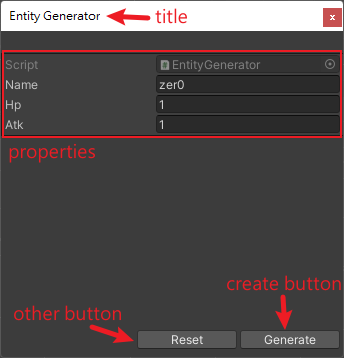
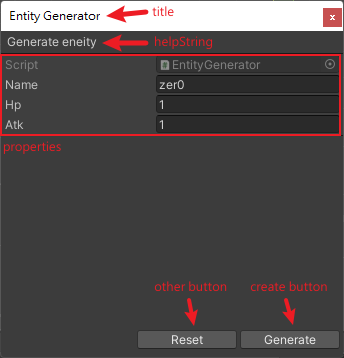
Updated ScriptableWizard

diff --git a/Assets/ScriptableWizard/Editor/EntityGenerator.cs b/Assets/ScriptableWizard/Editor/EntityGenerator.cs
@@ -17,7 +17,7 @@ namespace zer0.Editor {
 		/// It will be called when the window open
 		/// </summary>
 		private void Awake () {
-			Debug.Log ("Awake");
+			Debug.Log ("Entity Generator awake");
 
 			_name = DefaultName;
 			_hp = DefaultHp;
@@ -40,7 +40,7 @@ namespace zer0.Editor {
 			Entity entity = go.AddComponent<Entity> ();
 			entity.Init (_name, _hp, _atk);
 
-			Debug.Log ($"{_name} created!");
+			Debug.Log ($"{_name} is created");
 		}
 
 		/// <summary>
@@ -58,7 +58,16 @@ namespace zer0.Editor {
 		/// On wizard update
 		/// </summary>
 		private void OnWizardUpdate () {
-			// do something
+			if (_name == "") {
+				helpString = "Please input the name";
+				isValid = false;
+			} else {
+				helpString = "Generate eneity";
+				isValid = true;
+			}
+
+			_hp = Mathf.Max (0, _hp);
+			_atk = Mathf.Max (0, _atk);
 		}
 
 	}

diff --git a/Docs/ScriptableWizard.md b/Docs/ScriptableWizard.md
@@ -18,7 +18,7 @@ Inherit from `ScriptableWizard` like the code above👆. It consists of four par
 
 ![ScriptableWizard](/Images/001.png)
 
-and five functions.
+five functions,
 
 ```csharp
 [MenuItem ("zer0/ScriptableWizard/MyWizard")]
@@ -39,4 +39,13 @@ private void OnWizardOtherButton () {}
 // It will be called once when the wizard open.
 // It will be called when propeties are changed.
 private void OnWizardUpdate () {}
+```
+
+and two properties.
+
+```csharp
+private void Awake () {
+    helpString = "Generate entity";
+    isValid = true;
+}
 ```
